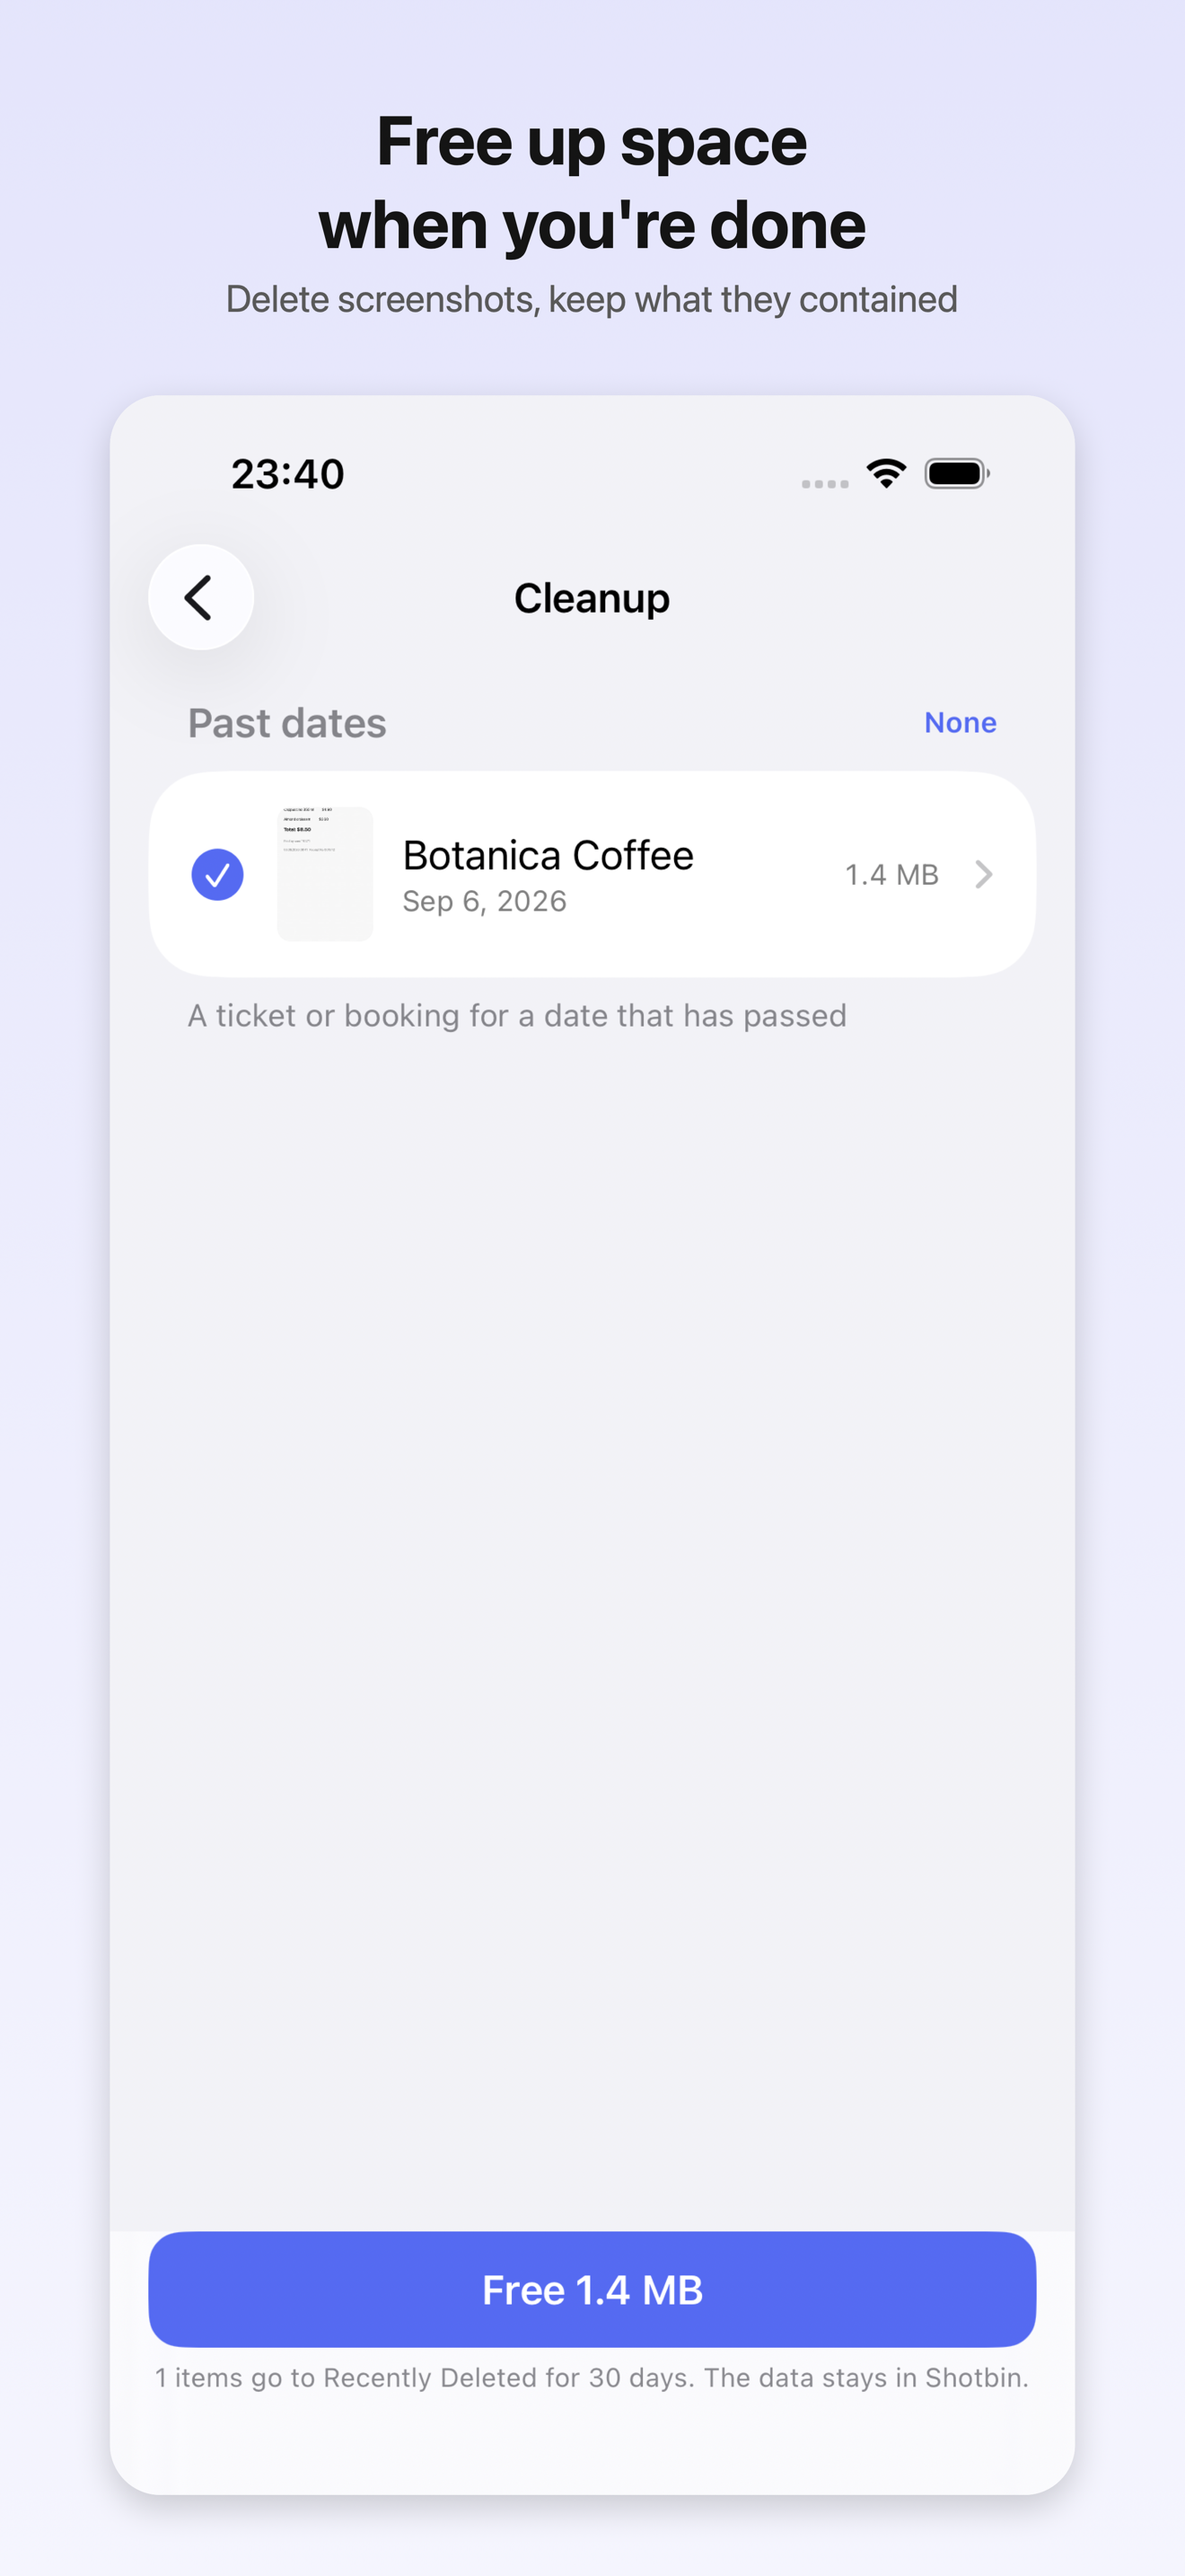
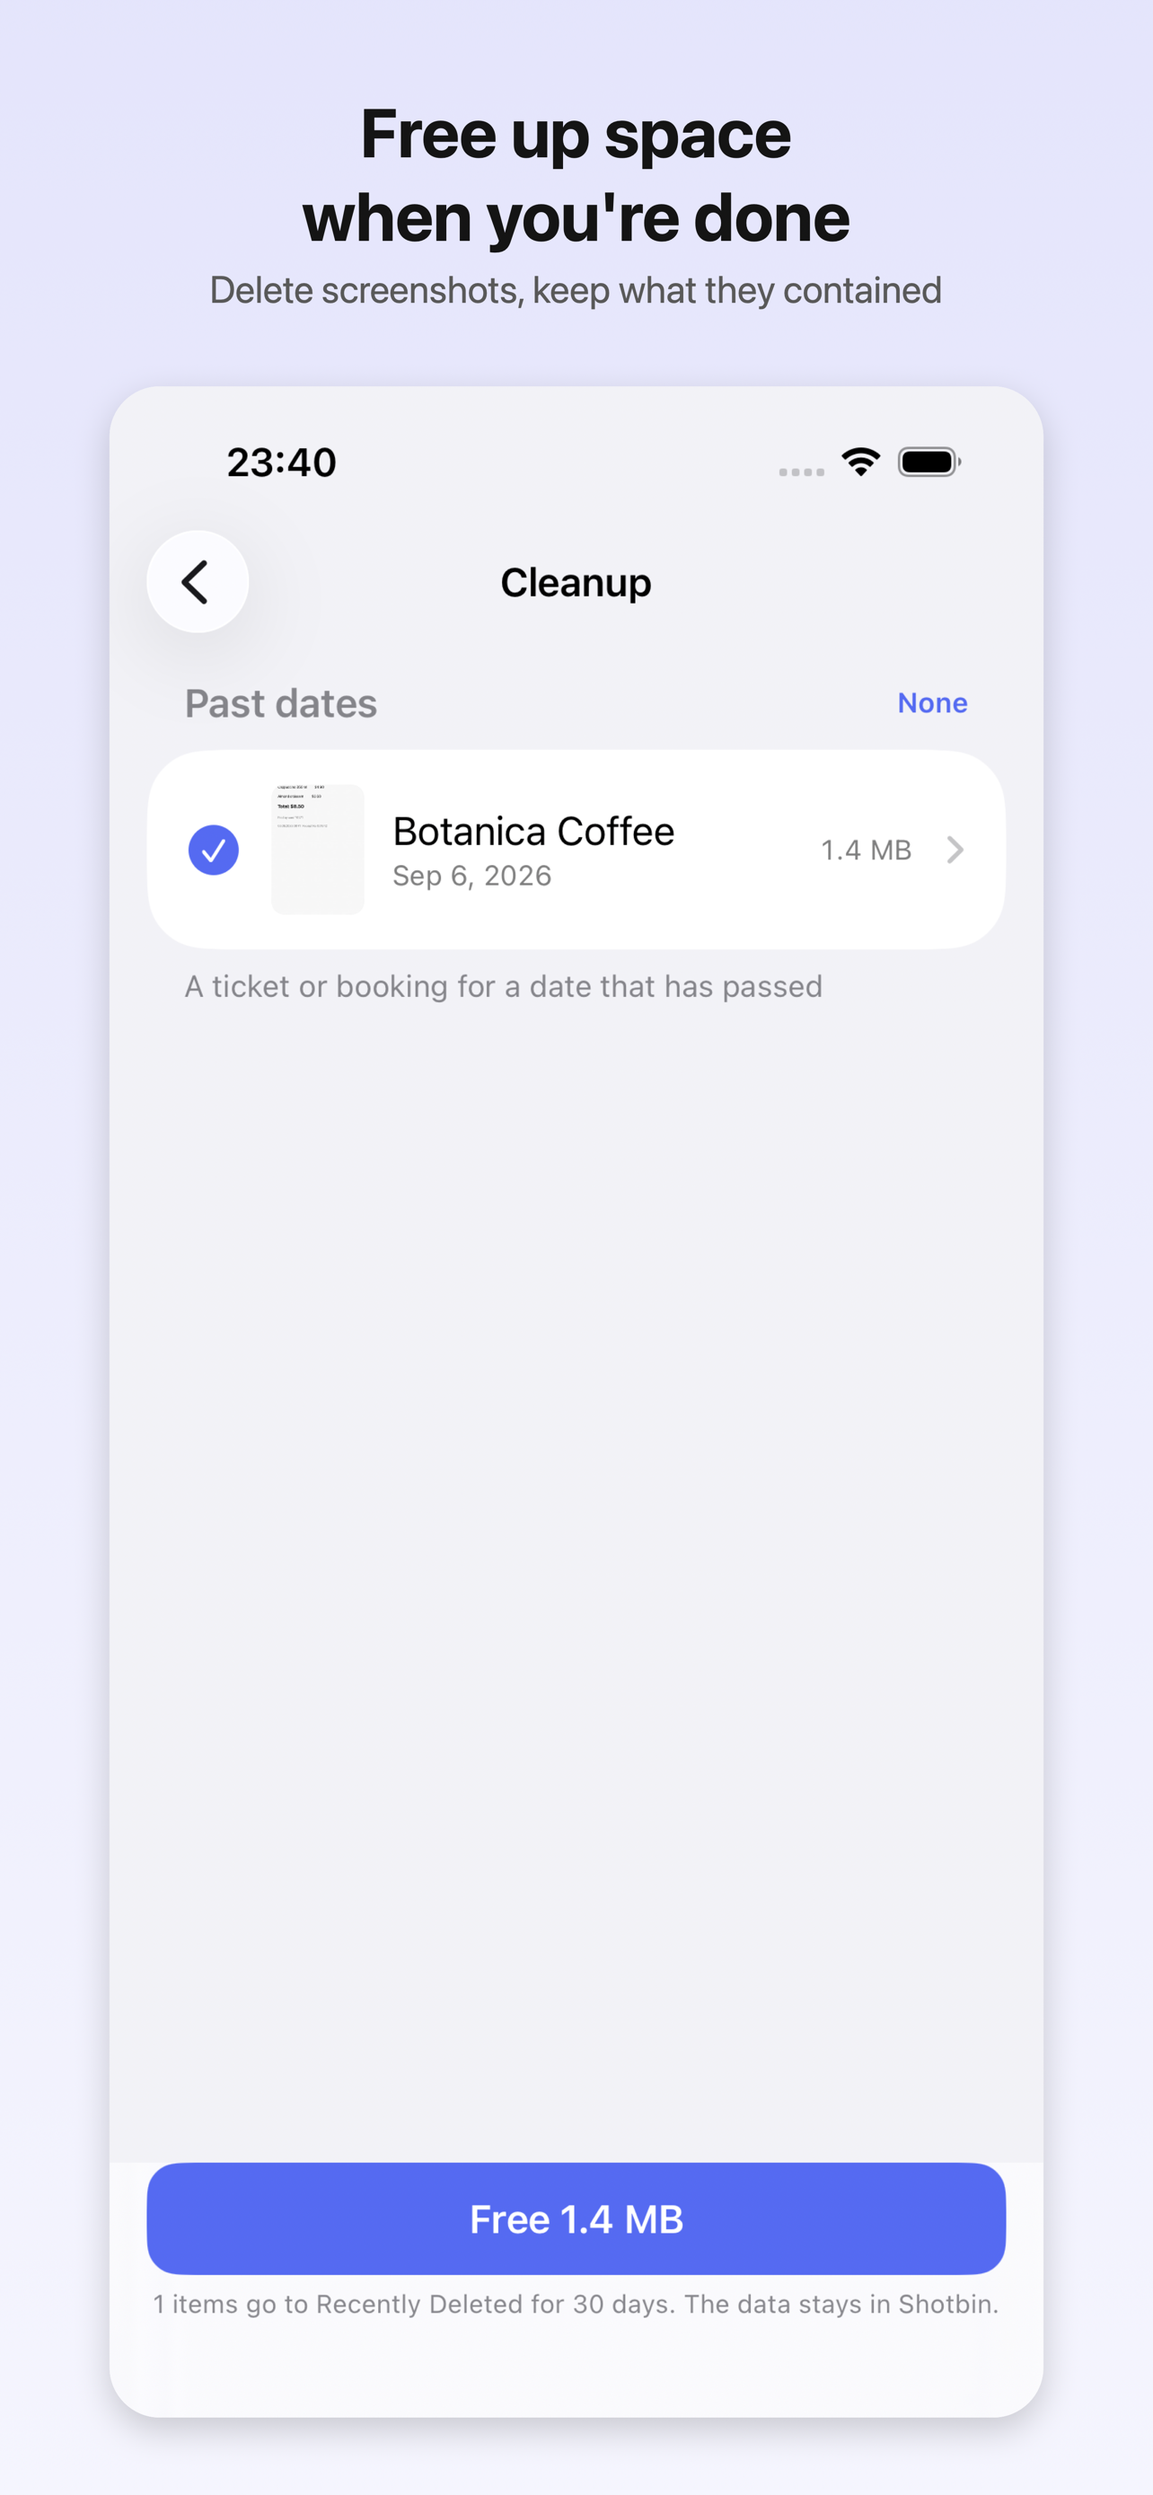
Снимки для магазина в размере 1284×2778

diff --git a/AppStore/frame.swift b/AppStore/frame.swift
@@ -1,8 +1,8 @@
 import AppKit
 
-// App Store для 6.9" (iPhone 17 Pro Max и аналоги) ждёт 1320×2868.
+// App Store Connect принимает набор 6.5" — 1284×2778.
 // Кадр из симулятора 1206×2622 вписываем в макет с заголовком.
-let outW = 1320.0, outH = 2868.0
+let outW = 1284.0, outH = 2778.0
 
 struct Slide { let file: String, title: String, subtitle: String }
 
@@ -22,17 +22,17 @@ func make(_ slide: Slide, out: String, accent: NSColor) {
     let tAttrs: [NSAttributedString.Key: Any] = [
         .font: NSFont.systemFont(ofSize: 76, weight: .bold),
         .foregroundColor: NSColor(white: 0.08, alpha: 1), .paragraphStyle: para]
-    (slide.title as NSString).draw(in: NSRect(x: pad, y: outH - 300, width: outW - pad*2, height: 190),
+    (slide.title as NSString).draw(in: NSRect(x: pad, y: outH - 292, width: outW - pad*2, height: 190),
                                    withAttributes: tAttrs)
     let sAttrs: [NSAttributedString.Key: Any] = [
         .font: NSFont.systemFont(ofSize: 42, weight: .regular),
         .foregroundColor: NSColor(white: 0.35, alpha: 1), .paragraphStyle: para]
-    (slide.subtitle as NSString).draw(in: NSRect(x: pad, y: outH - 386, width: outW - pad*2, height: 80),
+    (slide.subtitle as NSString).draw(in: NSRect(x: pad, y: outH - 376, width: outW - pad*2, height: 80),
                                       withAttributes: sAttrs)
 
     // сам экран: масштабируем по ширине, скругляем углы, кладём тень
     // Высота под экран: от низа заголовка до нижнего поля.
-    let top = outH - 440.0, bottom = 90.0
+    let top = outH - 430.0, bottom = 86.0
     let maxH = top - bottom
     let byWidth = (outW - pad * 2) / shot.size.width
     let scale = min(byWidth, maxH / shot.size.height)

diff --git a/AppStore/README.md b/AppStore/README.md
@@ -2,8 +2,11 @@
 
 ## Что здесь
 
-- `screenshots/en`, `screenshots/ru` — готовые картинки 1320×2868 (6.9", iPhone 17 Pro Max).
-  Этот размер App Store Connect принимает как основной и сам масштабирует под меньшие экраны.
+- `screenshots/en`, `screenshots/ru` — готовые картинки 1284×2778 (6.5", iPhone 11 Pro Max
+  и аналоги). App Store Connect принимает этот набор как основной и сам масштабирует
+  его под остальные размеры экранов. Допустимые размеры для этого набора:
+  1284×2778, 2778×1284, 1242×2688, 2688×1242 — другие отклоняются с ошибкой
+  «Неверные размеры одного или нескольких снимков экрана».
 - `samples/gen_en.swift`, `samples/gen_ru.swift` — генераторы тестовых скриншотов
   (чек, код из СМС, посадочный талон, Wi-Fi, переписка, рецепт, рилс с фильмом).
 - `frame.swift` — оформление: подкладывает кадр из симулятора на фон с заголовком.
